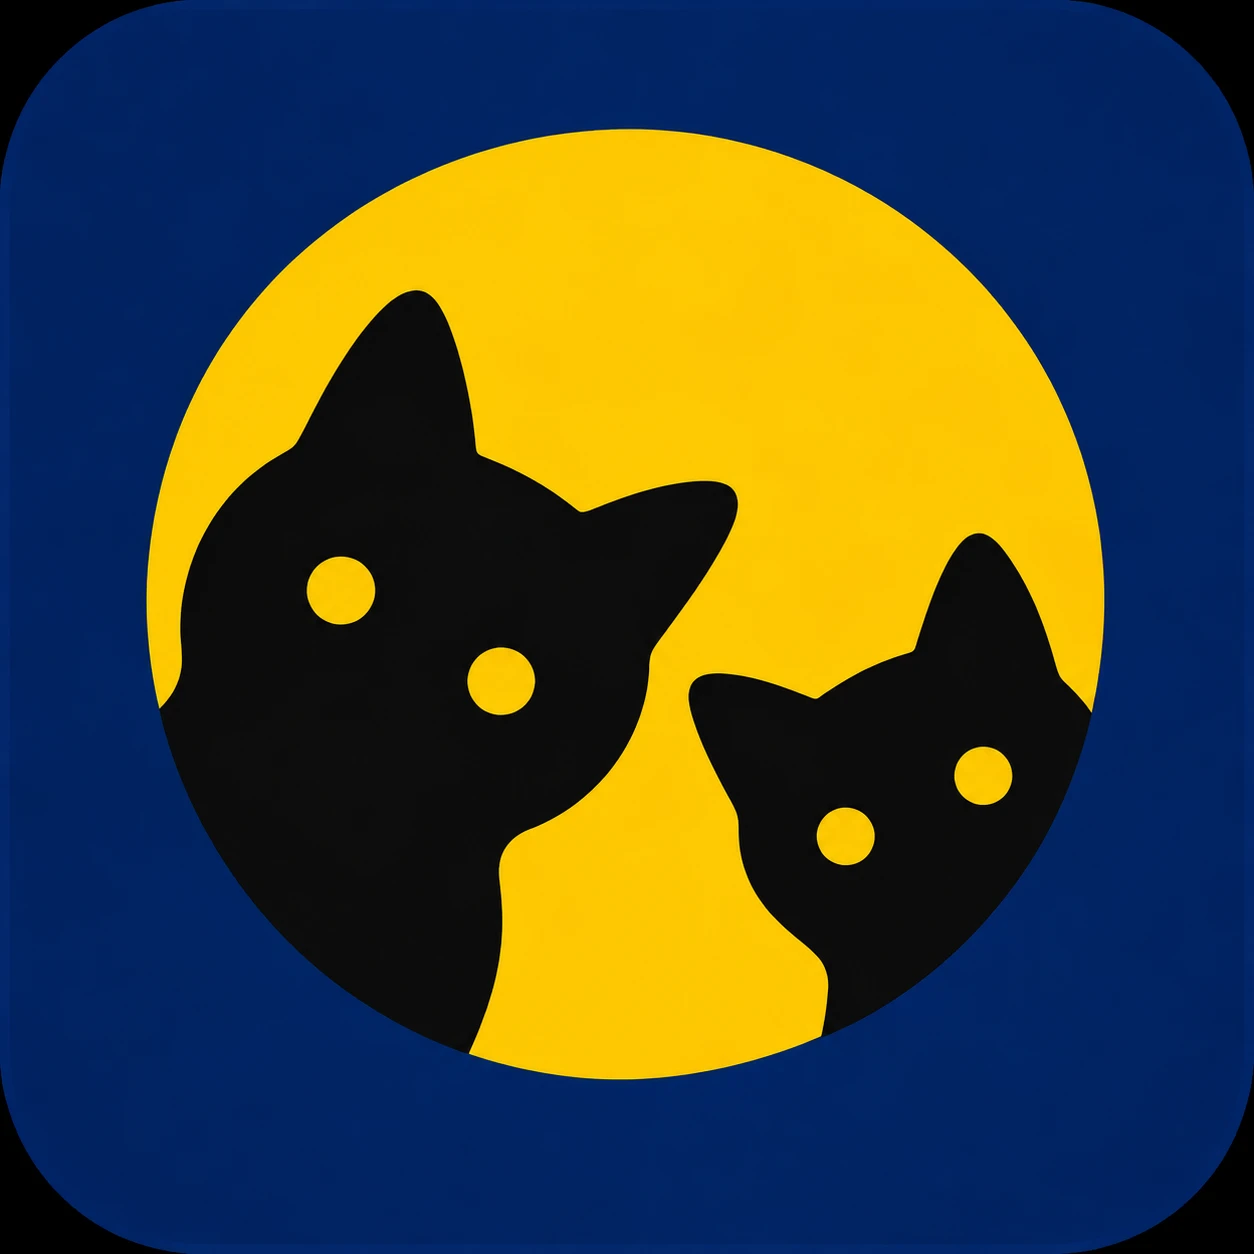
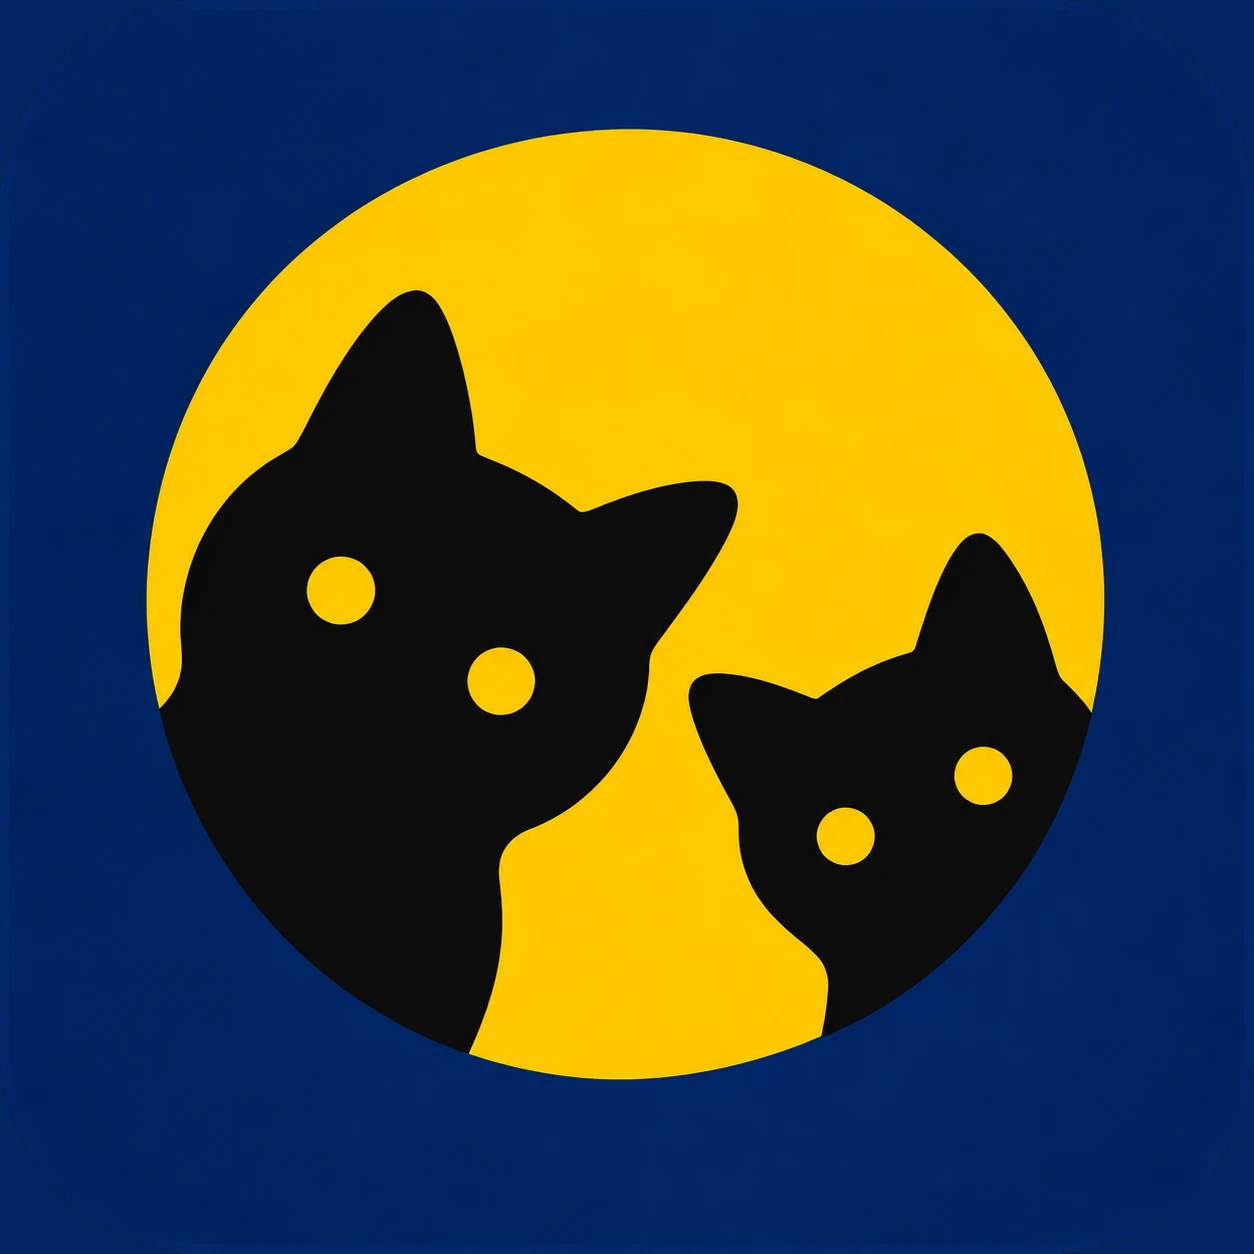
Perfect the source art: the corners are field colour, not black
The artwork painted its own rounded corners in black and every consumer
had to work around it -- cutting the tile with alpha left that black just
inside the arc and fringed all four corners. The tile shape belongs to
the mask, not to the pixels, so the source is now full-bleed with its
corners flooded to #012463 and both derivatives are regenerated from it.

Measured after: zero near-black within 12% of the edge on the 1024 icon
and the 128px brand mark. art/README.md states the invariant rather than
the workaround.

Claude-Session: https://claude.ai/code/session_01SKvBsAuT3sxvPJFMhisnDL

diff --git a/art/README.md b/art/README.md
@@ -35,10 +35,14 @@ rectangle.** `make-app-icon.py` clones the silhouette's alpha from the icon
 it replaces rather than drawing one, because a radius-based mask is the wrong
 curve and looks subtly wrong beside other icons in a dock or launcher.
 
-**The source draws its own corners in black.** Cutting the tile with alpha
-leaves that black just inside the arc and fringes all four corners. The
-generator masks it; anything else working on this art has to handle it rather
-than assume the corners are background.
+**The source is full-bleed, and its corners are field colour.** The tile
+shape belongs to the mask, not to the artwork. An earlier revision painted its
+own rounded corners in black, which survived just inside the arc when the tile
+was cut and fringed all four corners -- and, in the mirror-image failure, made
+the Windows generator read black as the background and pad with it. The
+corners are now `#012463` like the rest of the field. Keep it that way: if a
+future source arrives with painted corners, flood-fill them to the field
+colour before committing it.
 
 The generators need Pillow and numpy. On ariana `.venv/bin/python` has both
 and the system interpreters do not.
